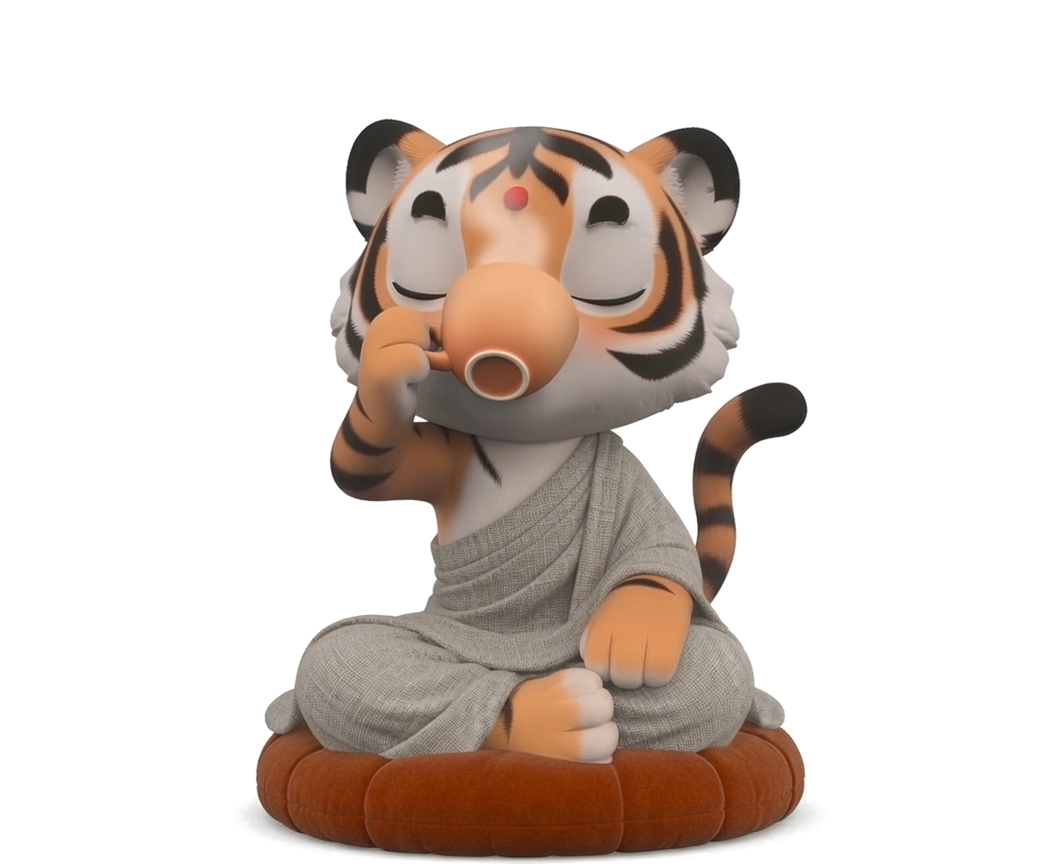
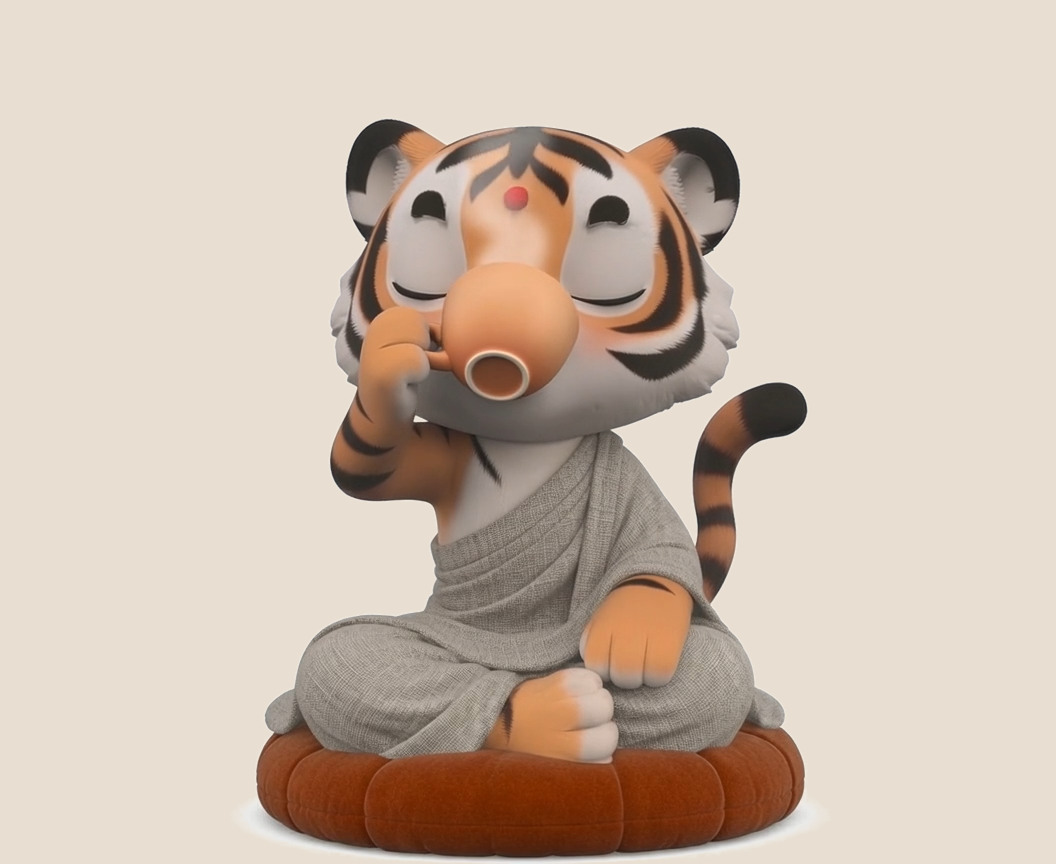
fix(support): bake tea card onto the same warm paper
GitHub and file viewers showed the tea PNG as black (transparent) while
Sanctuary and Membership were already beige, so the three arts still did
not match in the PR. Composite tea onto #e8dfd2 like the other two cards
and stop calling the Support entry 双卡 in PROCESS.

diff --git a/focus-tiger/src/ui/SupportYinModalUI.js b/focus-tiger/src/ui/SupportYinModalUI.js
@@ -563,7 +563,7 @@ export class SupportYinModalUI {
         aspect-ratio: 1 / 1;
         border-radius: 12px;
         overflow: hidden;
-        /* Tea PNG is transparent; Sanctuary/Membership bake the same paper into pixels. */
+        /* All three preview PNGs bake this paper; CSS remains a fallback. */
         background: ${CARD_IMG_PAPER};
       }
       .yin-support-card__img {

diff --git a/focus-tiger/docs/TEST_TRACKER.md b/focus-tiger/docs/TEST_TRACKER.md
@@ -406,7 +406,7 @@ Safari：`http://127.0.0.1:5173/?product=1`
 | Membership cloud provider + Portal Manage（Prompt 10） | UI可见 | 待人工测试 | **操作步骤 SSOT**：[`PAYMENT_MANUAL_TEST_CHECKLIST.md`](./PAYMENT_MANUAL_TEST_CHECKLIST.md) **§C4**。摘要：confirm **与** OTP verify **均**签发 deviceToken；卡内 **Manage** → Portal；无凭证时 Manage 有文案、provider 走 grace。自动化：`membershipDeviceToken.test.ts` + `cloudEntitlementProvider.test.js`。**生产 redeploy 仍 defer**（与 OTP secrets 同纪律）。 | **2026-08-11**：按三决定接线。**同日用户书面**：PR **#240 Merged** → `origin/develop` tip **`755d465`**。合入 ≠ 关单；§C4 仍待 Worker 含路由后人工测。 | — | — | `#yin-membership-manage` · `/api/membership-entitlement` · `/api/create-membership-portal-session` | 2026-08-11 |
 | Sanctuary 尊贵徽章素材入库（17） | 纯文档+资产 | 仅单元测试覆盖 | **素材入库**。17 枚 PNG → `public/ui/support/sanctuary-badges/`（kebab-case）；清单 `ASSET_INVENTORY`。与 tip `yin-badges/` **两套视觉**。授予见下行统一徽章。 | **2026-08-09** 入库 PR #202 已合；接线见 `feature/unified-practice-badges`。 | — | — | `sanctuary-badges/` · Brief `task-unified-practice-badges.md` | 2026-08-09 |
 | 统一练习徽章体系 | UI可见 | 待人工测试 | **公式**：`score = 练习天数 + floor(累计分钟/60)`；目标枚数 = `min + floor(score/3)`（只增不减）。免费 `min=1`（无练习=0）；Tea/Sanctuary `min=3`（上限 tip 9 / Sanctuary 17）。**主路径**：① 清 tip/Sanctuary → 微仪式或 Honesty 记一次练习 → Idle 阿寅旁 ≥1 枚；② `?tip=1` → ≥3 枚；控制台把 `practice-days` 改成约 3 天×60 分（score≈6）→ 刷新后 tip 应变 **5** 枚（无需再 tip）；③ Sanctuary preview/支付后 ≥3 枚尊贵章（卡内 `#yin-sanctuary-badges` + 阿寅旁优先）。**回流**：Rise 后再见徽章条；关 Tip/Sanctuary 卡再开仍在。**禁止** tip↔Sanctuary 互读解锁。自动化：`practiceBadgeAward` / `tipJarGate` sync / `sanctuaryBadges`。 | **2026-08-09** 用户拍板口径 + 开工。 | — | — | `?product=1` · `#yin-tip-kindness-badges` · `#yin-sanctuary-badges` | 2026-08-09 |
-| Support Yin 统一入口（Modal） | UI可见 | 待人工测试 | **主路径**：`?product=1` Idle → 右上角（音符左侧）**Support Yin** `#yin-support-fab` → `#yin-support-modal` 见**三卡**（左 Sanctuary：**Suggested** + 米色 CTA；中 Yin Membership：蒲团橙 CTA；右喝茶：三条仪式感 bullets + 米色 CTA）。三卡头图底为喝茶卡同款暖纸 `#e8dfd2`（左/中不得再是影棚灰/白）。中间报价行与左右同位置，文案 **About $** + `MEMBERSHIP_PRICE_DISPLAY` + billed monthly（当前展示 8.99，**须对照 Stripe Checkout**，未核过 Dashboard）→ 点 CTA 走既有 Stripe（与菜单卡同一 `startCheckout`）。**定价文案**：Sanctuary `One-time Lifetime` + About $89.99；Membership 见上；Tea About $9.99。**关闭**：**Maybe later** 文字链（非全宽描边钮）。**回流**：关 Modal 后再开；Focusing 时 FAB 隐藏，Rise 后复现；菜单 **不再**列 Yin's Sanctuary / Yin Membership / Buy Yin a Tea（改走右上 Support FAB）。**375**：三卡上下堆叠、可关；FAB 与 ♪ 同系玻璃。自动化：`SupportYinModalUI.test.js`（`{price}` 模板 + locale keys + tea 「no unlocks」/ Maybe later / Suggested）；头图暖纸靠烘焙 PNG + CSS `__art`，观感须人工。**明确未做**：多档 tip（2B）；徽章仅为文案承诺、未做资产。 | **2026-08-08** 产品：菜单罗列支付偏硬 → 统一 Support 入口；场景化请茶 + 漏斗统计另开下一任务（已记 `PROCESS`）。**合入** #187（`62e38a3`）+ **UX polish #194**（tip **`6ec70a7`**）：1 右卡 bullets（含 kindness badge 文案）+ 3 Primary/Ghost + 4 FAB 对齐 mute + 5 Maybe later + 2A One-time；2B 延后。关单级在当时 `origin/develop` tip 测（见文首「主干一次性关单验收」/ KnownRisky #27）——**勿**再开 Support-only QA worktree。 **2026-08-13 用户书面（图3）**：底层菜单三项付费与右上重复，应删除。 **2026-08-15 用户书面（图）**：三卡 Yin 头图底色不齐（左灰、中白、右暖纸）；Membership 缺 About $ 报价。 | — | — | `?product=1` · `#yin-support-fab` · `#yin-support-modal` · `/ui/support/` | 2026-08-15 |
+| Support Yin 统一入口（Modal） | UI可见 | 待人工测试 | **主路径**：`?product=1` Idle → 右上角（音符左侧）**Support Yin** `#yin-support-fab` → `#yin-support-modal` 见**三卡**（左 Sanctuary：**Suggested** + 米色 CTA；中 Yin Membership：蒲团橙 CTA；右喝茶：三条仪式感 bullets + 米色 CTA）。三卡头图底为喝茶卡同款暖纸 `#e8dfd2`（左/中不得再是影棚灰/白）。中间报价行与左右同位置，文案 **About $** + `MEMBERSHIP_PRICE_DISPLAY` + billed monthly（当前展示 8.99，**须对照 Stripe Checkout**，未核过 Dashboard）→ 点 CTA 走既有 Stripe（与菜单卡同一 `startCheckout`）。**定价文案**：Sanctuary `One-time Lifetime` + About $89.99；Membership 见上；Tea About $9.99。**关闭**：**Maybe later** 文字链（非全宽描边钮）。**回流**：关 Modal 后再开；Focusing 时 FAB 隐藏，Rise 后复现；菜单 **不再**列 Yin's Sanctuary / Yin Membership / Buy Yin a Tea（改走右上 Support FAB）。**375**：三卡上下堆叠、可关；FAB 与 ♪ 同系玻璃。自动化：`SupportYinModalUI.test.js`（`{price}` 模板 + locale keys + tea 「no unlocks」/ Maybe later / Suggested）；头图暖纸三卡均烘焙进 PNG（`#e8dfd2`）+ CSS `__art` 兜底，观感须人工。**明确未做**：多档 tip（2B）；徽章仅为文案承诺、未做资产。 | **2026-08-08** 产品：菜单罗列支付偏硬 → 统一 Support 入口；场景化请茶 + 漏斗统计另开下一任务（已记 `PROCESS`）。**合入** #187（`62e38a3`）+ **UX polish #194**（tip **`6ec70a7`**）：1 右卡 bullets（含 kindness badge 文案）+ 3 Primary/Ghost + 4 FAB 对齐 mute + 5 Maybe later + 2A One-time；2B 延后。关单级在当时 `origin/develop` tip 测（见文首「主干一次性关单验收」/ KnownRisky #27）——**勿**再开 Support-only QA worktree。 **2026-08-13 用户书面（图3）**：底层菜单三项付费与右上重复，应删除。 **2026-08-15 用户书面（图）**：三卡 Yin 头图底色不齐（左灰、中白、右暖纸）；Membership 缺 About $ 报价。 | — | — | `?product=1` · `#yin-support-fab` · `#yin-support-modal` · `/ui/support/` | 2026-08-15 |
 | 付费成功回跳致谢动画（Tea / Sanctuary / Membership） | UI可见 | 待人工测试 | **操作步骤**：[`PAYMENT_MANUAL_TEST_CHECKLIST.md`](./PAYMENT_MANUAL_TEST_CHECKLIST.md) **§D**。Tea→`teaDrinking`；Sanctuary→`mindfulAcknowledge`；Membership→`sessionComplete`；cancel 不播。自动化：`paymentCheckoutThanks.test.js`。 | **2026-08-11 用户书面（合前）**：Tea/Sanctuary 支付 OK；问回跳是否应有动画、三档各选何题材。**同日 #231 已合**：题材拍板并接线。须在 develop tip 后按 §D 人工看动画。 | — | — | checklist §D | 2026-08-11 |
 | 付费 · 场景化请茶气泡 | UI可见 | 待人工测试 | **主路径**：`?product=1` → 清 `localStorage` 键 `focus-tiger.contextual-tea-tip.v1` → 完成一场达标专注（或触发里程碑）→ 庆祝/完成反馈约 **1.8s** 后底部出现 `#contextual-tea-tip-bubble`（`data-testid=contextual-tea-tip-bubble`）→ CTA **Buy Yin a Tea** 打开既有 TipJar；**Maybe later** / 点消可关。**回流**：同日本日不再出；次日可再出；关后再完成一场仍受一日一次门闩。**禁止**：挡主路径、必 tip、与 Sanctuary 解锁耦合。自动化：`contextualTeaTipGate.test.js`。 | **2026-08-12** Ambient #251 合入后开工；本支接线。 | — | — | `?product=1` · `#contextual-tea-tip-bubble` · TipJar | 2026-08-12 |
 | Focus 计时提示音（开始磬 / 结束铃） | UI可见 | 待人工测试 | **主路径**：`?product=1` → 开表（时长 chip）→ **立刻**一声开始磬（勿等异步加载）；Focusing 开音符选曲可闻 → 等到达标 → 氛围先压低再结束铃 → 约 1.5s 淡出停氛围 → 庆祝动画仍可走。**开关**：音符面板音量下「计时提示音」`#ambient-session-cues-toggle` 关掉 → 开始/结束皆静音；再开恢复。**回流**：早退 Rise **不**播结束铃；关开关 → Rise → 再 Sit 开表仍静音。**预加载**：DevTools 网络节流后点开始，音效应即时。**禁止**：付费门 / Ambient Gate。自动化：`SessionCueController.test.js` + duck 单测。 | **2026-08-12** 审计确认后实现。**合入** #275 tip **`0d05b10`**。 | — | — | `?product=1` · `#ambient-session-cues-toggle` · `/audio/cues/` · tip `0d05b10` | 2026-08-12 |

diff --git a/focus-tiger/docs/PROCESS.md b/focus-tiger/docs/PROCESS.md
@@ -58,12 +58,13 @@
 
 > **维护规则**：每次完成具有实质性进展的 Task（不含纯粹的 debug / 微调）后，主动更新本速览对应部分，尤其是「已完成功能」「下一步计划」；若产生新的「待确认事项」，同步补入列表。本章节置于靠前位置，便于新对话快速对齐，无需每次加载全部文档。
 
-**最后更新时间**：2026-08-15（UTC+8） · 免责改「?」查阅 + Enso 再缩 + Stay in touch 最新版
+**最后更新时间**：2026-08-15（UTC+8） · Support 三卡暖纸底 + Membership 报价占位
 
 **当前技术路线**：主线为 **2D PNG 序列帧动画**（素材来源：图生视频 + 抽帧，见 `ARCHITECTURE.md`）；既有 **3D 多姿态 GLB** 资产与 `PoseManager` / `DynamicMotion` 等代码**完整保留**，改用于未来「奖励系统」塑胶公仔展示，不再作为主界面情绪表现载体。
 
 **近期落地（待人工测试）**：
 
+- **Support 三卡暖纸底 + Membership 报价行（2026-08-15 · #298）**：`#yin-support-modal` 左/中/右头图均为暖纸 `#e8dfd2`（烘焙进 PNG，不再只靠 CSS）。中间 Membership 报价行与左右同位置（`MEMBERSHIP_PRICE_DISPLAY` 为卡面占位，须对照 Stripe Checkout）。TRACKER Support 行待人工。
 - **Wellness 免责改「?」查阅 + Enso 再缩（2026-08-15）**：冷启动**不再**自动弹出「Not therapy or medical care」；点「?」简介卡仍见同一免责。Enso 直径改为蒲团可见径约 **10%**（相对上一版 25% 的约 40%），须落在蒲团中央、不越界。TRACKER 待人工。
 - **菜单订阅 CTA（2026-08-15 · #296 已合）**：未解锁进阶仪式时，⋯ / 抽屉在 Stay in touch 下出米色 **Subscribe for more scenes**（点开 Membership 卡）；已解锁则为普通钮 **You're subscribed**（同样打开 Membership 卡）。邮件留资提交后改称 **We'll keep in touch**，避免与付费订阅撞车。不恢复 Tea/Sanctuary 三项目录。TRACKER 待人工。
 - **Stay in touch 卡面（2026-08-15 · #295 已合）**：除 known-error 修复说明外，留邮箱也会收到更好的最新版（latest release）说明；仍非推销名单。欢迎信定稿不改字。TRACKER 待人工。
@@ -109,7 +110,7 @@
 - **Sanctuary 尊贵徽章素材入库（2026-08-09 · PR #202 已合）**：17 枚 → `public/ui/support/sanctuary-badges/`；本支接线授予。
 - **主动 Recover · Tiger Anchor（2026-08-09 · 本支）**：Focusing 轻触阿寅 → `triggerActiveRecover()`（nod-bow + 中置 toast + LightProgression）；不占被动提醒额度；**180s** 冷却隐退；零 MicroRitual。TRACKER 新行待人工（含 375）。
 - **SCENARIO_TESTS 增量升格（2026-08-09）**：正式故事补 **Q**（Support/Tea/Sanctuary）· **S**（Breath 左球）· **T**（Focus 时长 chip）· **U**（Cinema/Quiet Line/Wallpapers）· **V**（吹花欢迎）· **W**（Privacy/?）；**R** 跨日回访仍建议。权威 `SCENARIO_TESTS.md`；逐功能仍走 `TEST_TRACKER`。
-- **Support Yin 统一入口（2026-08-08 · #187 + UX #194 已合 tip）**：右上角 `#yin-support-fab` → `#yin-support-modal` 双卡；菜单两项**暂留**。**关单级**与其它未关单项共用同一 `origin/develop` tip worktree（见 `TEST_TRACKER`「主干一次性关单验收」/ KnownRisky #27）——**勿**再专开 Support-only QA tree。**UX polish 已合**（#194）。**善意徽章 + 茶室留痕已合**（#196 · tip **`5d08797`**）：9 枚高清 PNG；打赏按练习授 3–9；Tip 卡 + 阿寅身旁；再 tip 无新练习不加枚，但有 Tea Log + `nodGreeting`/`teaDrinking` 致谢。**场景化请茶气泡（#253 已合 tip `c10acb7`）**。**意愿漏斗本地统计（#255 已合）**；**Ambient Deep 15s 试听（#258 已合 tip `2b3db1c`）**；**意愿漏斗 opt-in 回传（#262 已合 tip `582e79f`）**。
+- **Support Yin 统一入口（2026-08-08 · #187 + UX #194 已合 tip）**：右上角 `#yin-support-fab` → `#yin-support-modal`（当时双卡；**2026-08-15 起为三卡**，见上条暖纸底）。菜单付费三项后改走 Support FAB。**关单级**与其它未关单项共用同一 `origin/develop` tip worktree（见 `TEST_TRACKER`「主干一次性关单验收」/ KnownRisky #27）——**勿**再专开 Support-only QA tree。**UX polish 已合**（#194）。**善意徽章 + 茶室留痕已合**（#196 · tip **`5d08797`**）：9 枚高清 PNG；打赏按练习授 3–9；Tip 卡 + 阿寅身旁；再 tip 无新练习不加枚，但有 Tea Log + `nodGreeting`/`teaDrinking` 致谢。**场景化请茶气泡（#253 已合 tip `c10acb7`）**。**意愿漏斗本地统计（#255 已合）**；**Ambient Deep 15s 试听（#258 已合 tip `2b3db1c`）**；**意愿漏斗 opt-in 回传（#262 已合 tip `582e79f`）**。
 - **主干 tip 验收盘点（2026-08-08）**：`origin/develop` tip **`beb9147`**（含 #187 Support + #188 PWA 延后 QA）。TRACKER 约 96 行仍开；**本批**按 KnownRisky §0.1（P0 闪白/Honesty → P1 Breath/chip/吹花/增长/付费/Support → P2 旧债）；实验室/长墙钟/PWA 安装**不排**本批。操作 SSOT：`KNOWN_RISKY_TEST_CHECKLIST.md`。
 - **Tip / Sanctuary 云部署（2026-08-08）**：#181 Price + `$89.99`；#182 曾误写旁路账号 KV（已纠回 `ihiro` 的 KV id）。**SSOT** = `https://focus-tiger-cloud.ihiro.workers.dev`。同日 **redeploy 成功**（Version `eb921e5f…`）：新 Tip/Sanctuary Price ID 已上线；secrets/Webhook 沿用。**须人工** Test 卡验金额。
 - **合入核对（2026-08-07）**：**#163 Privacy** 已合 `develop`（`af6f65f`）。**#164 Reflection** 误合 **`main`**（`30ef3c9`）；**`main` 先不动**（下次正规 develop→main 发版）。纠正 PR **#175** 把共鸣补回 `develop`。发版备忘：见 `WORKFLOW.md`「发版核对备忘 · main 已提前含 #164」——届时共鸣路径 diff「无变化」为预期。开 PR 须 `--base develop`（`git-pr-base-develop`）。

diff --git a/focus-tiger/docs/ASSET_INVENTORY.md b/focus-tiger/docs/ASSET_INVENTORY.md
@@ -241,9 +241,9 @@
 
 | 文件 | 用途 |
 |---|---|
-| `sanctuary-preview.png` | Support · Yin's Sanctuary 卡头图（2026-08-15 影棚白底改为暖纸 `#e8dfd2` 烘焙进像素，与喝茶卡 CSS 纸色对齐） |
+| `sanctuary-preview.png` | Support · Yin's Sanctuary 卡头图（2026-08-15 影棚白底改为暖纸 `#e8dfd2` 烘焙进像素） |
 | `membership-meditation-preview.png` | Support · Yin Membership 卡头图（闭目坐禅；入库 2026-08-11；同日烘焙暖纸底） |
-| `tea-drinking-preview.png` | Support · Buy Yin a Tea 卡头图（透明底，由 CSS `__art` 透出同款暖纸） |
+| `tea-drinking-preview.png` | Support · Buy Yin a Tea 卡头图（2026-08-15 与左/中卡同样烘焙暖纸 `#e8dfd2`，避免 GitHub/文件预览发黑） |
 | `support-yin-icon.png` | 右上 Support FAB 小图 |
 | 文件 | 目录档位（低→高） |
 |---|---|
